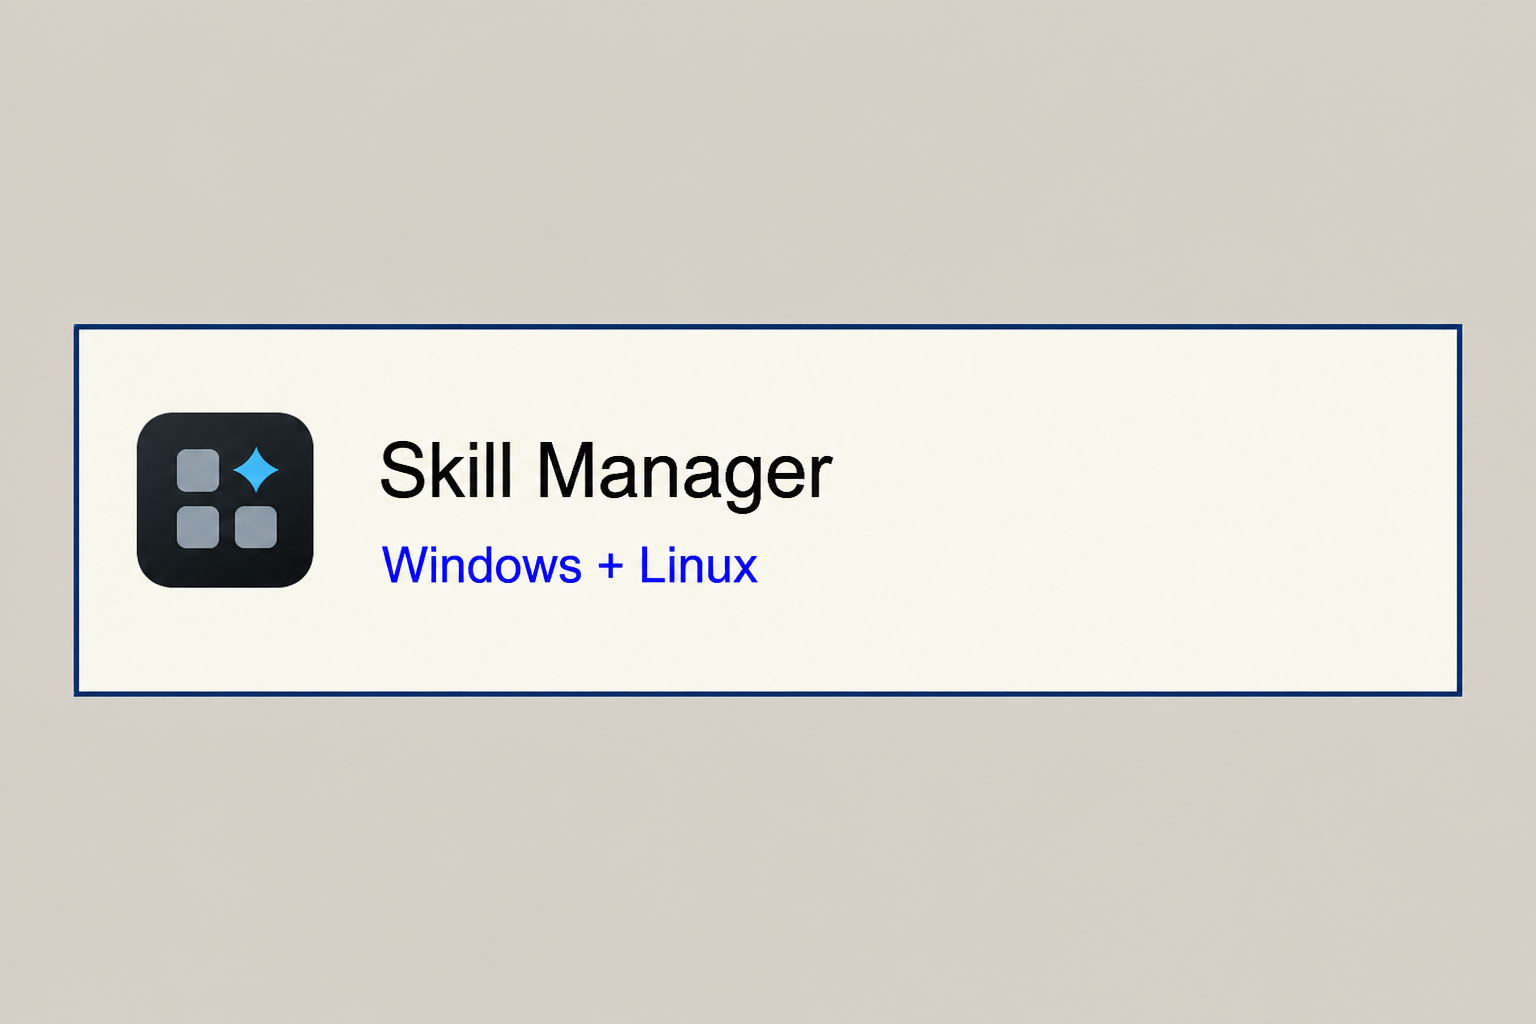
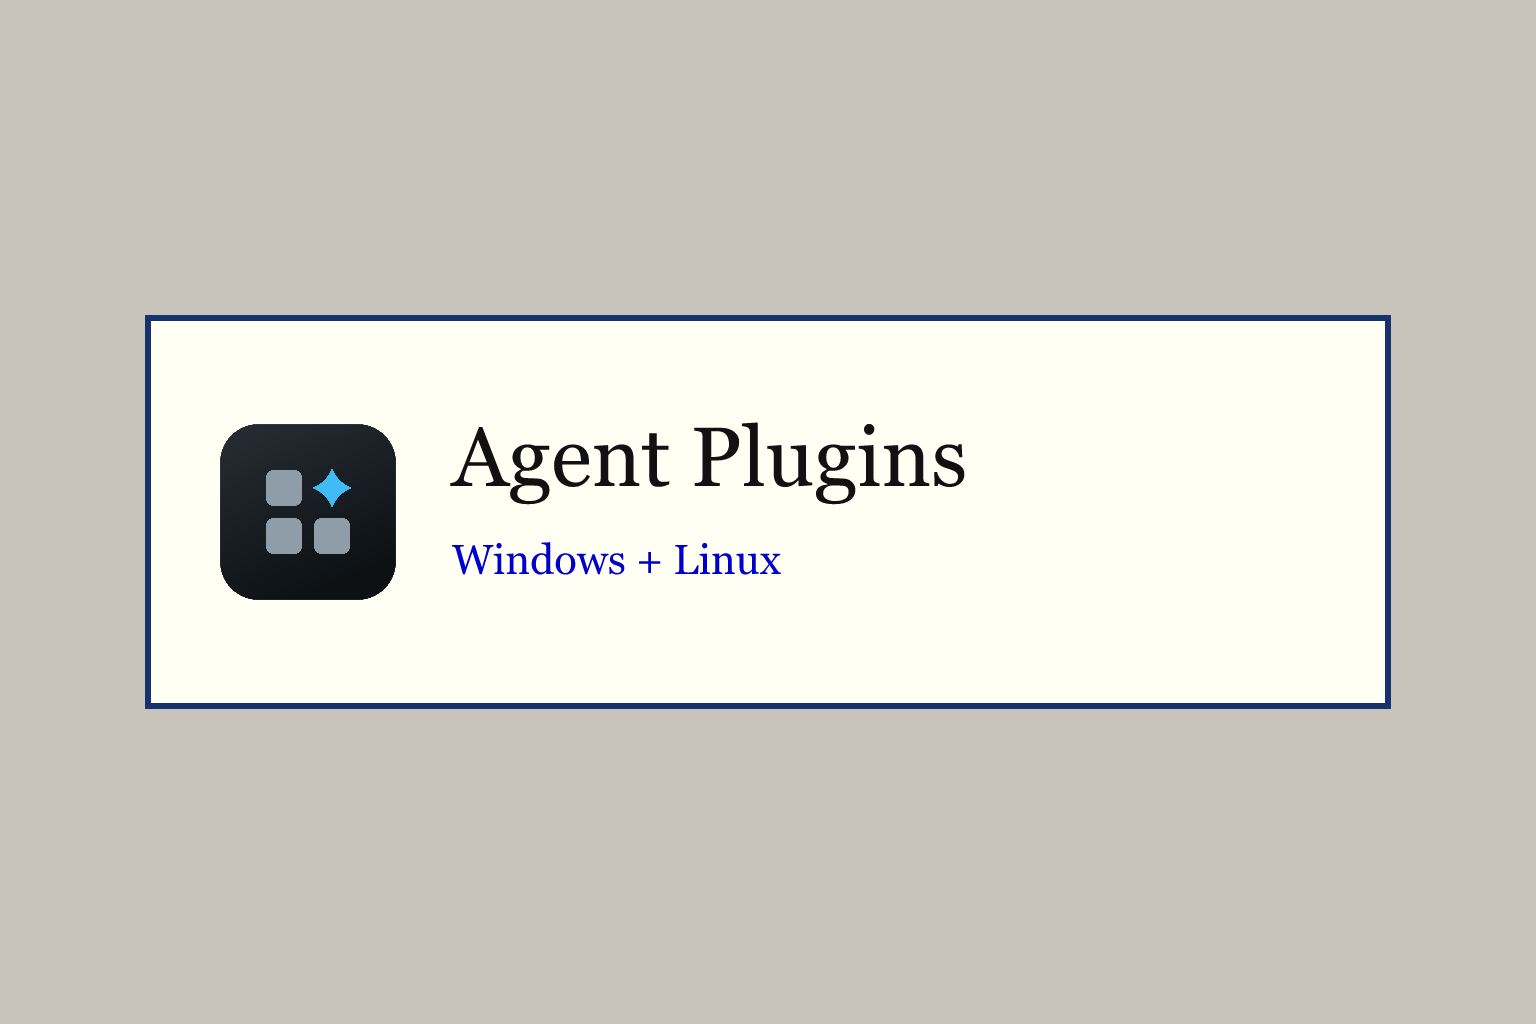
Rename the desktop app to Agent Plugins
Keep crate names, bundle identifier, cache paths, and skill-manager.json
as the on-disk contracts.

Changed region(s): [[0.0312, 0.2812, 0.9688, 0.7188]]

diff --git a/website/index.html b/website/index.html
@@ -4,16 +4,16 @@
     <meta charset="UTF-8" />
     <meta name="viewport" content="width=device-width, initial-scale=1" />
     <meta name="theme-color" content="#d4d0c8" />
-    <meta name="description" content="Skill Manager installs portable skills and MCP servers from published sources into per-user folders. Download it for Windows or Linux." />
+    <meta name="description" content="Agent Plugins installs portable skills and MCP servers from published sources into per-user folders. Download it for Windows or Linux." />
     <meta property="og:type" content="website" />
-    <meta property="og:title" content="Skill Manager" />
-    <meta property="og:description" content="Install Agent Skills and MCP servers from Git or HTTPS sources without copying them by hand." />
+    <meta property="og:title" content="Agent Plugins" />
+    <meta property="og:description" content="Install Agent Skills and MCP servers from published sources without copying them by hand." />
     <meta property="og:image" content="/assets/og.png" />
     <meta name="twitter:card" content="summary_large_image" />
     <link rel="icon" href="/assets/icon.png" />
     <link rel="stylesheet" href="/styles.css" />
     <script src="/app.js" defer></script>
-    <title>Skill Manager</title>
+    <title>Agent Plugins</title>
   </head>
   <body>
     <a class="skip-link" href="#content">Skip to content</a>
@@ -21,21 +21,22 @@
     <main id="content">
       <header>
         <div>
-          <h1>Skill Manager</h1>
-          <p>A small desktop program for installing files from published sources.</p>
+          <h1>Agent Plugins</h1>
+          <p>A desktop program for installing Agent Skills and MCP servers from published sources.</p>
         </div>
       </header>
 
       <section aria-labelledby="about-heading">
         <h2 id="about-heading">What it does</h2>
         <p>
-          Skill Manager reads a
-          <a href="/source-manifest.html" target="_blank" rel="noopener"><code>skill-manager.json</code></a>
-          file from a Git repository or a raw HTTPS archive and shows you the packages it can install. You can also add a
+          Agent Plugins reads a
+          <a href="/source-manifest.html" target="_blank" rel="noopener">source manifest</a>
+          named <code>skill-manager.json</code>
+          from an HTTPS archive and shows you the packages it can install. You can also add a
           <a href="/source-repository.html" target="_blank" rel="noopener">source repository</a>
           catalog, browse its listed sources, and opt in. You choose what to add or remove.
         </p>
-        <p>It is useful for installing Agent Skills and other configuration files into per-user folders. It does not overwrite unmanaged folders or managed installs with local changes.</p>
+        <p>It installs Agent Skills and MCP configuration into per-user folders. It does not overwrite unmanaged folders or managed installs with local changes.</p>
       </section>
 
       <section aria-labelledby="download-heading">

diff --git a/src/App.tsx b/src/App.tsx
@@ -163,7 +163,7 @@ async function invokeParsed<T>(command: string, schema: z.ZodType<T>, args?: Rec
 }
 
 function errorText(reason: unknown): string {
-  return reason instanceof z.ZodError ? `Skill Manager returned invalid data: ${z.prettifyError(reason)}` : String(reason);
+  return reason instanceof z.ZodError ? `Agent Plugins returned invalid data: ${z.prettifyError(reason)}` : String(reason);
 }
 
 function repositoryBrowserUrl(repositoryUrl: string): string | null {
@@ -909,7 +909,7 @@ function AgentProfilesDialog({
         <Dialog.Description>
           {needsSelection
             ? "Detected coding agents are selected automatically. Enable any others this machine should receive portable skills and MCP servers."
-            : "Detected agents start enabled. Disable any you do not want Skill Manager to configure."}
+            : "Detected agents start enabled. Disable any you do not want Agent Plugins to configure."}
         </Dialog.Description>
         <div className="agent-profiles">
           {profiles.map((profile) => (
@@ -1163,7 +1163,7 @@ export default function App(): JSX.Element {
       } catch (reason) {
         const text = errorText(reason);
         if (text.toLowerCase().includes("reset_source") && text.toLowerCase().includes("not found")) {
-          setError("Restart Skill Manager so it can load the Reset command, then try again.");
+          setError("Restart Agent Plugins so it can load the Reset command, then try again.");
           return;
         }
         throw reason;
@@ -1296,7 +1296,7 @@ export default function App(): JSX.Element {
       <header className="app-header">
         <div>
           <Heading as="h1" size="7">
-            Skill Manager
+            Agent Plugins
           </Heading>
         </div>
         <div className="catalog-actions">

diff --git a/vite.config.ts b/vite.config.ts
@@ -8,7 +8,7 @@ const host = process.env["TAURI_DEV_HOST"];
  * Radix Themes ships a responsive variant of every size, spacing, and layout
  * rule, one copy per breakpoint. Those copies are two thirds of its stylesheet
  * and they only ever apply when a component prop is given an object of
- * breakpoint keys — something Skill Manager never does. Stripping them takes a
+ * breakpoint keys — something Agent Plugins never does. Stripping them takes a
  * 700 kB stylesheet down to well under 200 kB, which is the difference between
  * a visible pause and an instant first paint on a software-rendered Windows
  * session, where every byte of CSS is parsed before anything appears.

diff --git a/index.html b/index.html
@@ -3,9 +3,9 @@
   <head>
     <meta charset="UTF-8" />
     <meta name="viewport" content="width=device-width, initial-scale=1.0" />
-    <meta name="description" content="Install and remove user-level agent skills." />
+    <meta name="description" content="Install and remove user-level Agent Skills and MCP servers." />
     <meta name="color-scheme" content="dark" />
-    <title>Skill Manager</title>
+    <title>Agent Plugins</title>
     <!--
       The webview paints the document background before the stylesheet has
       finished parsing. Without this the window opens on a white flash and then

diff --git a/src/main.tsx b/src/main.tsx
@@ -4,7 +4,7 @@ import { Theme } from "@radix-ui/themes";
 
 /*
   `@radix-ui/themes/styles.css` carries all thirty-one Radix colour scales.
-  Skill Manager renders five of them — the blue accent, the slate gray, and
+  Agent Plugins renders five of them — the blue accent, the slate gray, and
   amber, green, and red for status — so the rest is a hundred kilobytes of
   custom properties the webview parses on every launch and never reads. The
   token files are imported individually instead. `tokens/base.css` maps

diff --git a/src-tauri/src/tray.rs b/src-tauri/src/tray.rs
@@ -75,7 +75,7 @@ fn toggle_launch_at_login<R: Runtime>(
 }
 
 pub(crate) fn setup<R: Runtime>(app: &mut App<R>) -> Result<(), Box<dyn Error>> {
-    let open_item = MenuItem::with_id(app, OPEN_MENU_ID, "Open Skill Manager", true, None::<&str>)?;
+    let open_item = MenuItem::with_id(app, OPEN_MENU_ID, "Open Agent Plugins", true, None::<&str>)?;
     let check_now_item = MenuItem::with_id(
         app,
         CHECK_NOW_MENU_ID,
@@ -99,7 +99,7 @@ pub(crate) fn setup<R: Runtime>(app: &mut App<R>) -> Result<(), Box<dyn Error>> 
         None::<&str>,
     )?;
     let separator = PredefinedMenuItem::separator(app)?;
-    let quit_item = MenuItem::with_id(app, QUIT_MENU_ID, "Quit Skill Manager", true, None::<&str>)?;
+    let quit_item = MenuItem::with_id(app, QUIT_MENU_ID, "Quit Agent Plugins", true, None::<&str>)?;
     let menu = Menu::with_items(
         app,
         &[
@@ -119,7 +119,7 @@ pub(crate) fn setup<R: Runtime>(app: &mut App<R>) -> Result<(), Box<dyn Error>> 
     let icon = app.default_window_icon().cloned().ok_or_else(|| {
         io::Error::new(
             io::ErrorKind::NotFound,
-            "Skill Manager has no application icon for the system tray.",
+            "Agent Plugins has no application icon for the system tray.",
         )
     })?;
     let launch_item_for_handler = launch_at_login_item.clone();
@@ -127,7 +127,7 @@ pub(crate) fn setup<R: Runtime>(app: &mut App<R>) -> Result<(), Box<dyn Error>> 
     let tray = TrayIconBuilder::<R>::with_id(TRAY_ID)
         .icon(icon)
         .icon_as_template(cfg!(target_os = "macos"))
-        .tooltip("Skill Manager")
+        .tooltip("Agent Plugins")
         .menu(&menu)
         // The macOS menu bar opens the menu from either button. The Windows
         // notification area expects the left button to open the application
@@ -137,9 +137,9 @@ pub(crate) fn setup<R: Runtime>(app: &mut App<R>) -> Result<(), Box<dyn Error>> 
             OPEN_MENU_ID => match show_main_window(app) {
                 Ok(true) => {}
                 Ok(false) => eprintln!(
-                    "Could not open Skill Manager because its main window is unavailable."
+                    "Could not open Agent Plugins because its main window is unavailable."
                 ),
-                Err(error) => eprintln!("Could not open Skill Manager: {error}"),
+                Err(error) => eprintln!("Could not open Agent Plugins: {error}"),
             },
             CHECK_NOW_MENU_ID => crate::application_v1::spawn_app_sync(app.clone()),
             LAUNCH_AT_LOGIN_MENU_ID => {
@@ -164,9 +164,9 @@ pub(crate) fn setup<R: Runtime>(app: &mut App<R>) -> Result<(), Box<dyn Error>> 
         match show_main_window(tray.app_handle()) {
             Ok(true) => {}
             Ok(false) => {
-                eprintln!("Could not open Skill Manager because its main window is unavailable.");
+                eprintln!("Could not open Agent Plugins because its main window is unavailable.");
             }
-            Err(error) => eprintln!("Could not open Skill Manager: {error}"),
+            Err(error) => eprintln!("Could not open Agent Plugins: {error}"),
         }
     });
 
@@ -175,7 +175,7 @@ pub(crate) fn setup<R: Runtime>(app: &mut App<R>) -> Result<(), Box<dyn Error>> 
     if !is_background_launch() && !show_main_window(app.handle())? {
         return Err(io::Error::new(
             io::ErrorKind::NotFound,
-            "Skill Manager's main window was not created.",
+            "Agent Plugins' main window was not created.",
         )
         .into());
     }

diff --git a/src-tauri/src/lib.rs b/src-tauri/src/lib.rs
@@ -35,16 +35,16 @@ mod tray;
 #[cfg_attr(mobile, tauri::mobile_entry_point)]
 pub fn run() {
     let runtime_state = application_v1::RuntimeState::new()
-        .expect("could not initialize the Skill Manager runtime");
+        .expect("could not initialize the Agent Plugins runtime");
     let builder = tauri::Builder::default();
     #[cfg(desktop)]
     let builder = builder.plugin(tauri_plugin_single_instance::init(|app, _args, _cwd| {
         match crate::tray::show_main_window(app) {
             Ok(true) => {}
             Ok(false) => {
-                eprintln!("Could not open Skill Manager because its main window is unavailable.");
+                eprintln!("Could not open Agent Plugins because its main window is unavailable.");
             }
-            Err(error) => eprintln!("Could not open Skill Manager: {error}"),
+            Err(error) => eprintln!("Could not open Agent Plugins: {error}"),
         }
     }));
     let builder = builder
@@ -75,7 +75,7 @@ pub fn run() {
                 if let tauri::WindowEvent::CloseRequested { api, .. } = event {
                     api.prevent_close();
                     if let Err(error) = window.hide() {
-                        eprintln!("Could not hide Skill Manager in the system tray: {error}");
+                        eprintln!("Could not hide Agent Plugins in the system tray: {error}");
                     }
                 }
             }

diff --git a/src-tauri/src/digest.rs b/src-tauri/src/digest.rs
@@ -1,6 +1,6 @@
 //! Content digests for skill directories, remembered against directory shape.
 //!
-//! A digest is the identity Skill Manager records in an install marker, so the
+//! A digest is the identity Agent Plugins records in an install marker, so the
 //! algorithm itself is frozen: the same directory has to keep hashing to the
 //! same bytes forever. How often it runs is not frozen. A refresh asks for the
 //! digest of an installed skill more than once — to decide whether an automatic
@@ -38,7 +38,7 @@ use std::time::{Duration, SystemTime, UNIX_EPOCH};
 
 /// How long a directory has to have been still before its digest is trusted
 /// from the memo. Comfortably longer than the coarsest timestamp granularity
-/// Skill Manager can meet, and far shorter than the interval between refreshes.
+/// Agent Plugins can meet, and far shorter than the interval between refreshes.
 const SETTLE_PERIOD: Duration = Duration::from_secs(3);
 /// Large enough for every catalog and installed skill on a real machine. When
 /// it is reached the memo is emptied rather than evicted one entry at a time:

diff --git a/src-tauri/src/source_v1.rs b/src-tauri/src/source_v1.rs
@@ -437,7 +437,7 @@ fn stage_artifact_source(
     let result = (|| {
         extract_source_archive(&downloaded.bytes, &staging)?;
         let catalog = read_manifest_catalog(&staging, source_key).map_err(|error| {
-            format!("This artifact is not a valid Skill Manager source: {error}")
+            format!("This artifact is not a valid Agent Plugins source: {error}")
         })?;
         let definition =
             configured_from_catalog(source_key.to_string(), locator.clone(), None, &catalog);

diff --git a/src-tauri/src/fs_retry.rs b/src-tauri/src/fs_retry.rs
@@ -4,7 +4,7 @@
 //! written: antivirus scanners, the search indexer, and Explorer all take
 //! brief opportunistic handles. A rename or delete issued inside that window
 //! fails with a sharing violation even though the identical call succeeds a
-//! moment later. Skill Manager renames and deletes directories immediately
+//! moment later. Agent Plugins renames and deletes directories immediately
 //! after writing them, so it meets that window regularly on Windows and
 //! effectively never on Unix.
 //!

diff --git a/src-tauri/src/parallel.rs b/src-tauri/src/parallel.rs
@@ -1,6 +1,6 @@
 //! A small scoped work queue for the filesystem-bound loops.
 //!
-//! Skill Manager spends nearly all of its time walking skill directories, and
+//! Agent Plugins spends nearly all of its time walking skill directories, and
 //! on Windows every file it opens is also an antivirus scan. That makes the
 //! work latency-bound rather than CPU-bound, so running several directories at
 //! once is close to a linear speed-up even on a virtual machine with two

diff --git a/src-tauri/src/install_v1.rs b/src-tauri/src/install_v1.rs
@@ -76,7 +76,7 @@ impl SystemPaths {
             .any(|state_root| path == state_root || path.starts_with(state_root))
         {
             return Err(format!(
-                "Destination {} is inside Skill Manager's own state.",
+                "Destination {} is inside Agent Plugins' own state.",
                 path.display()
             ));
         }
